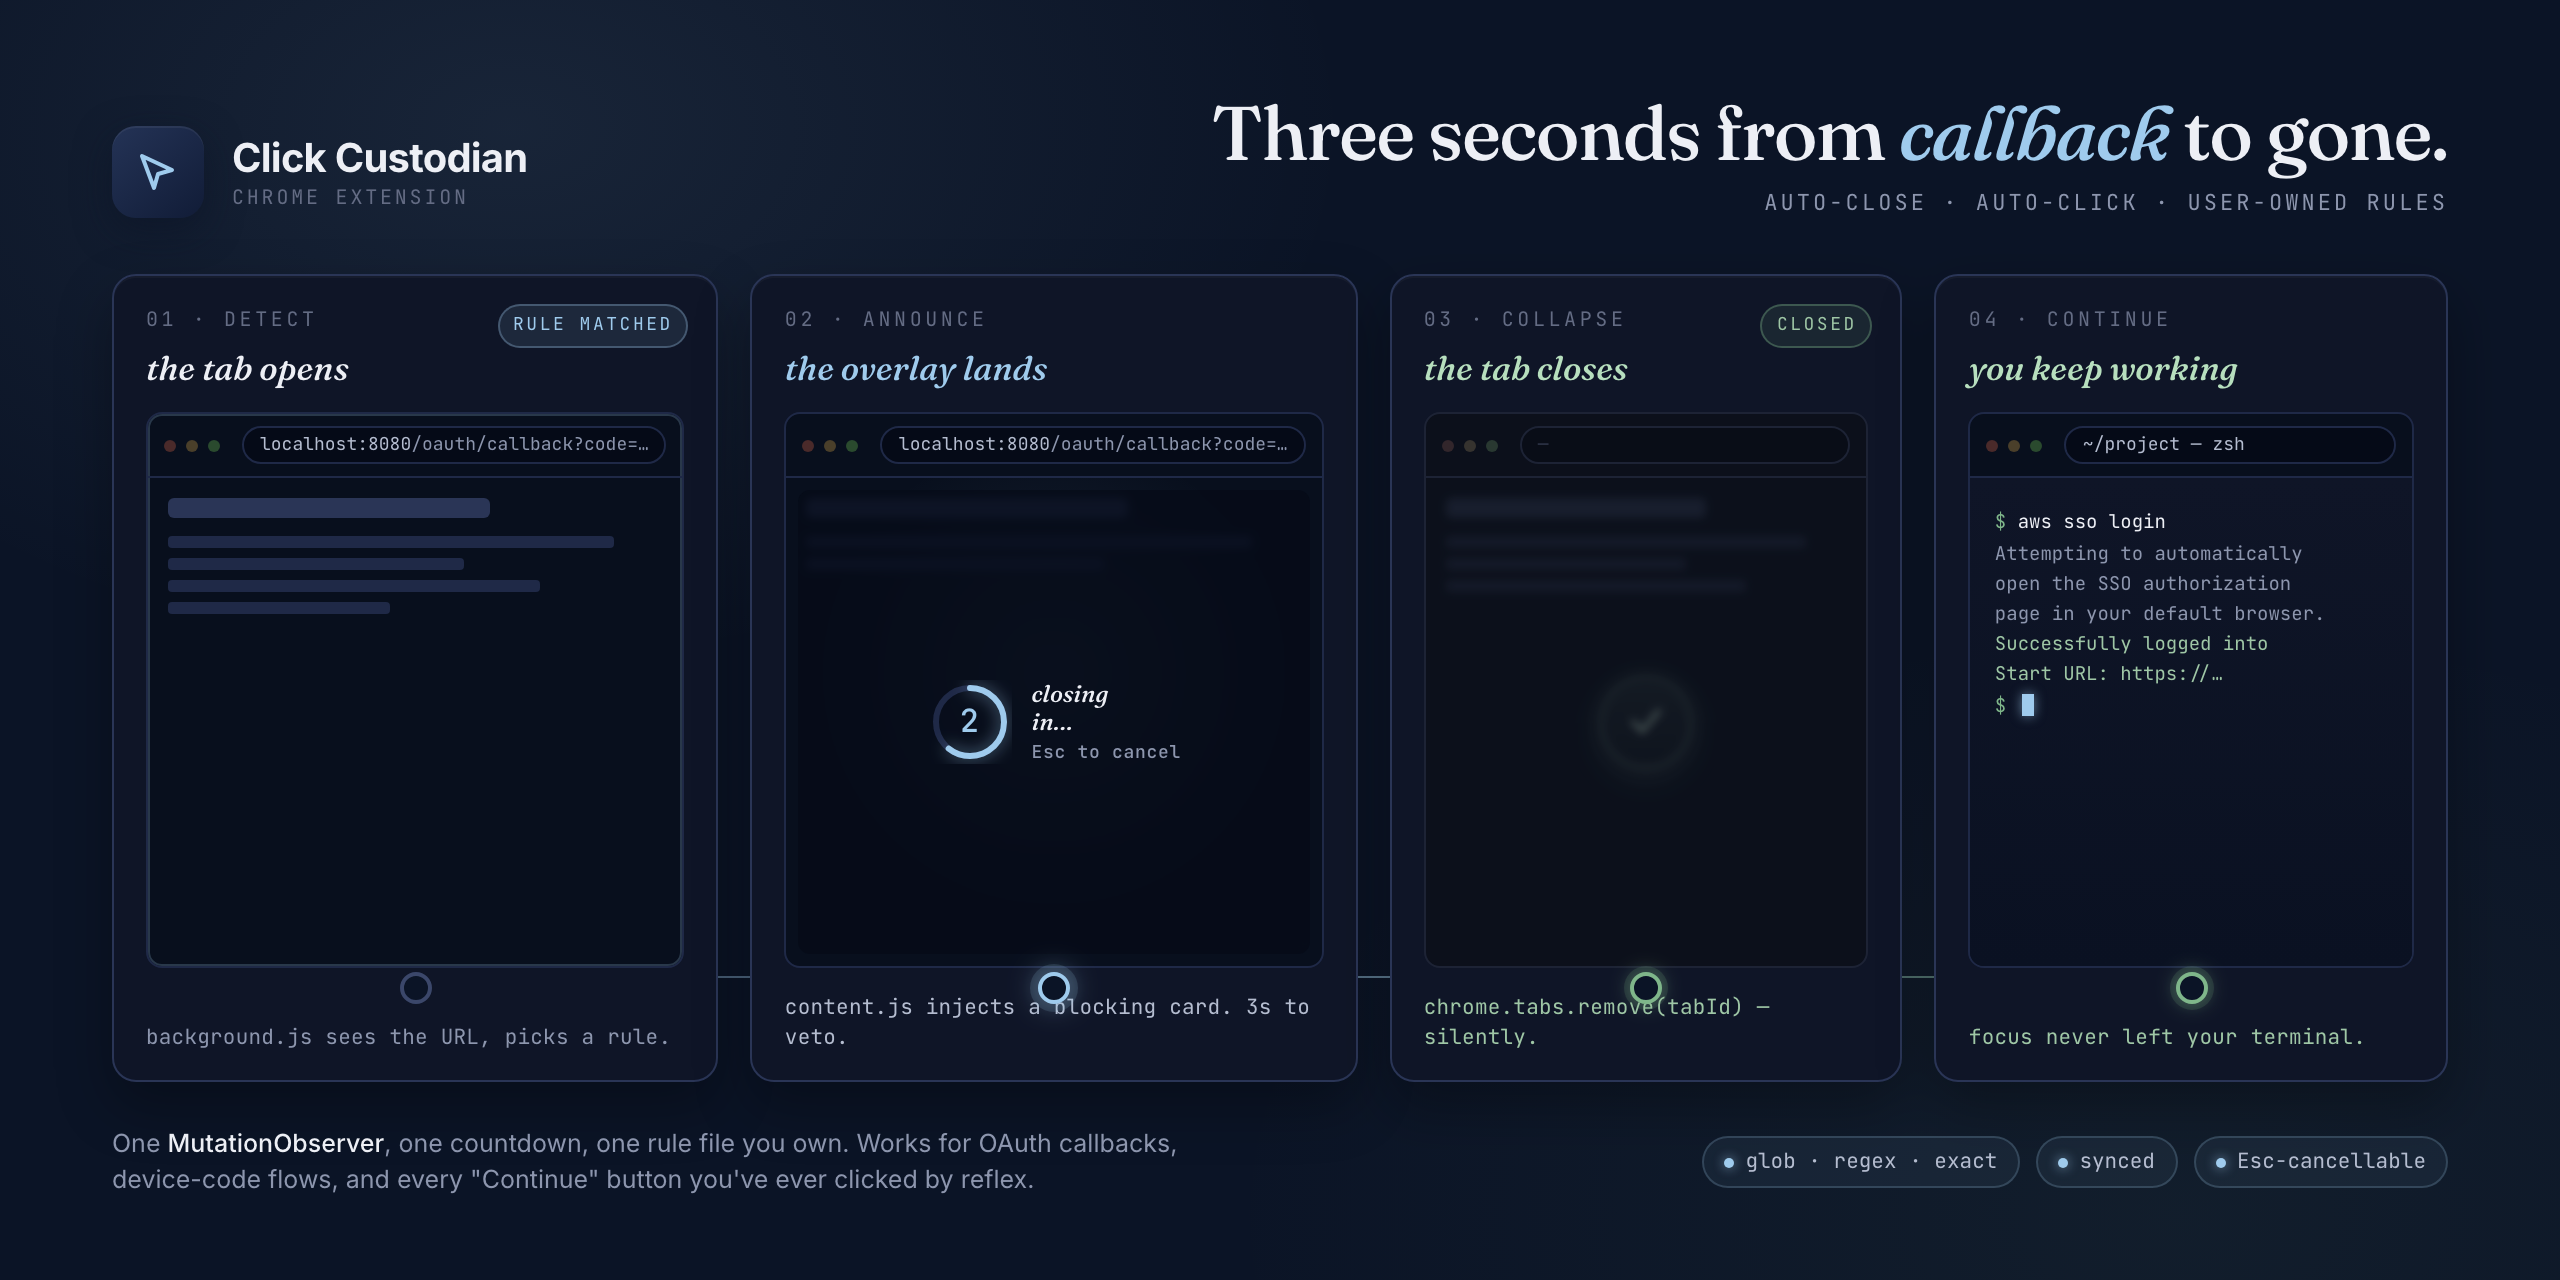
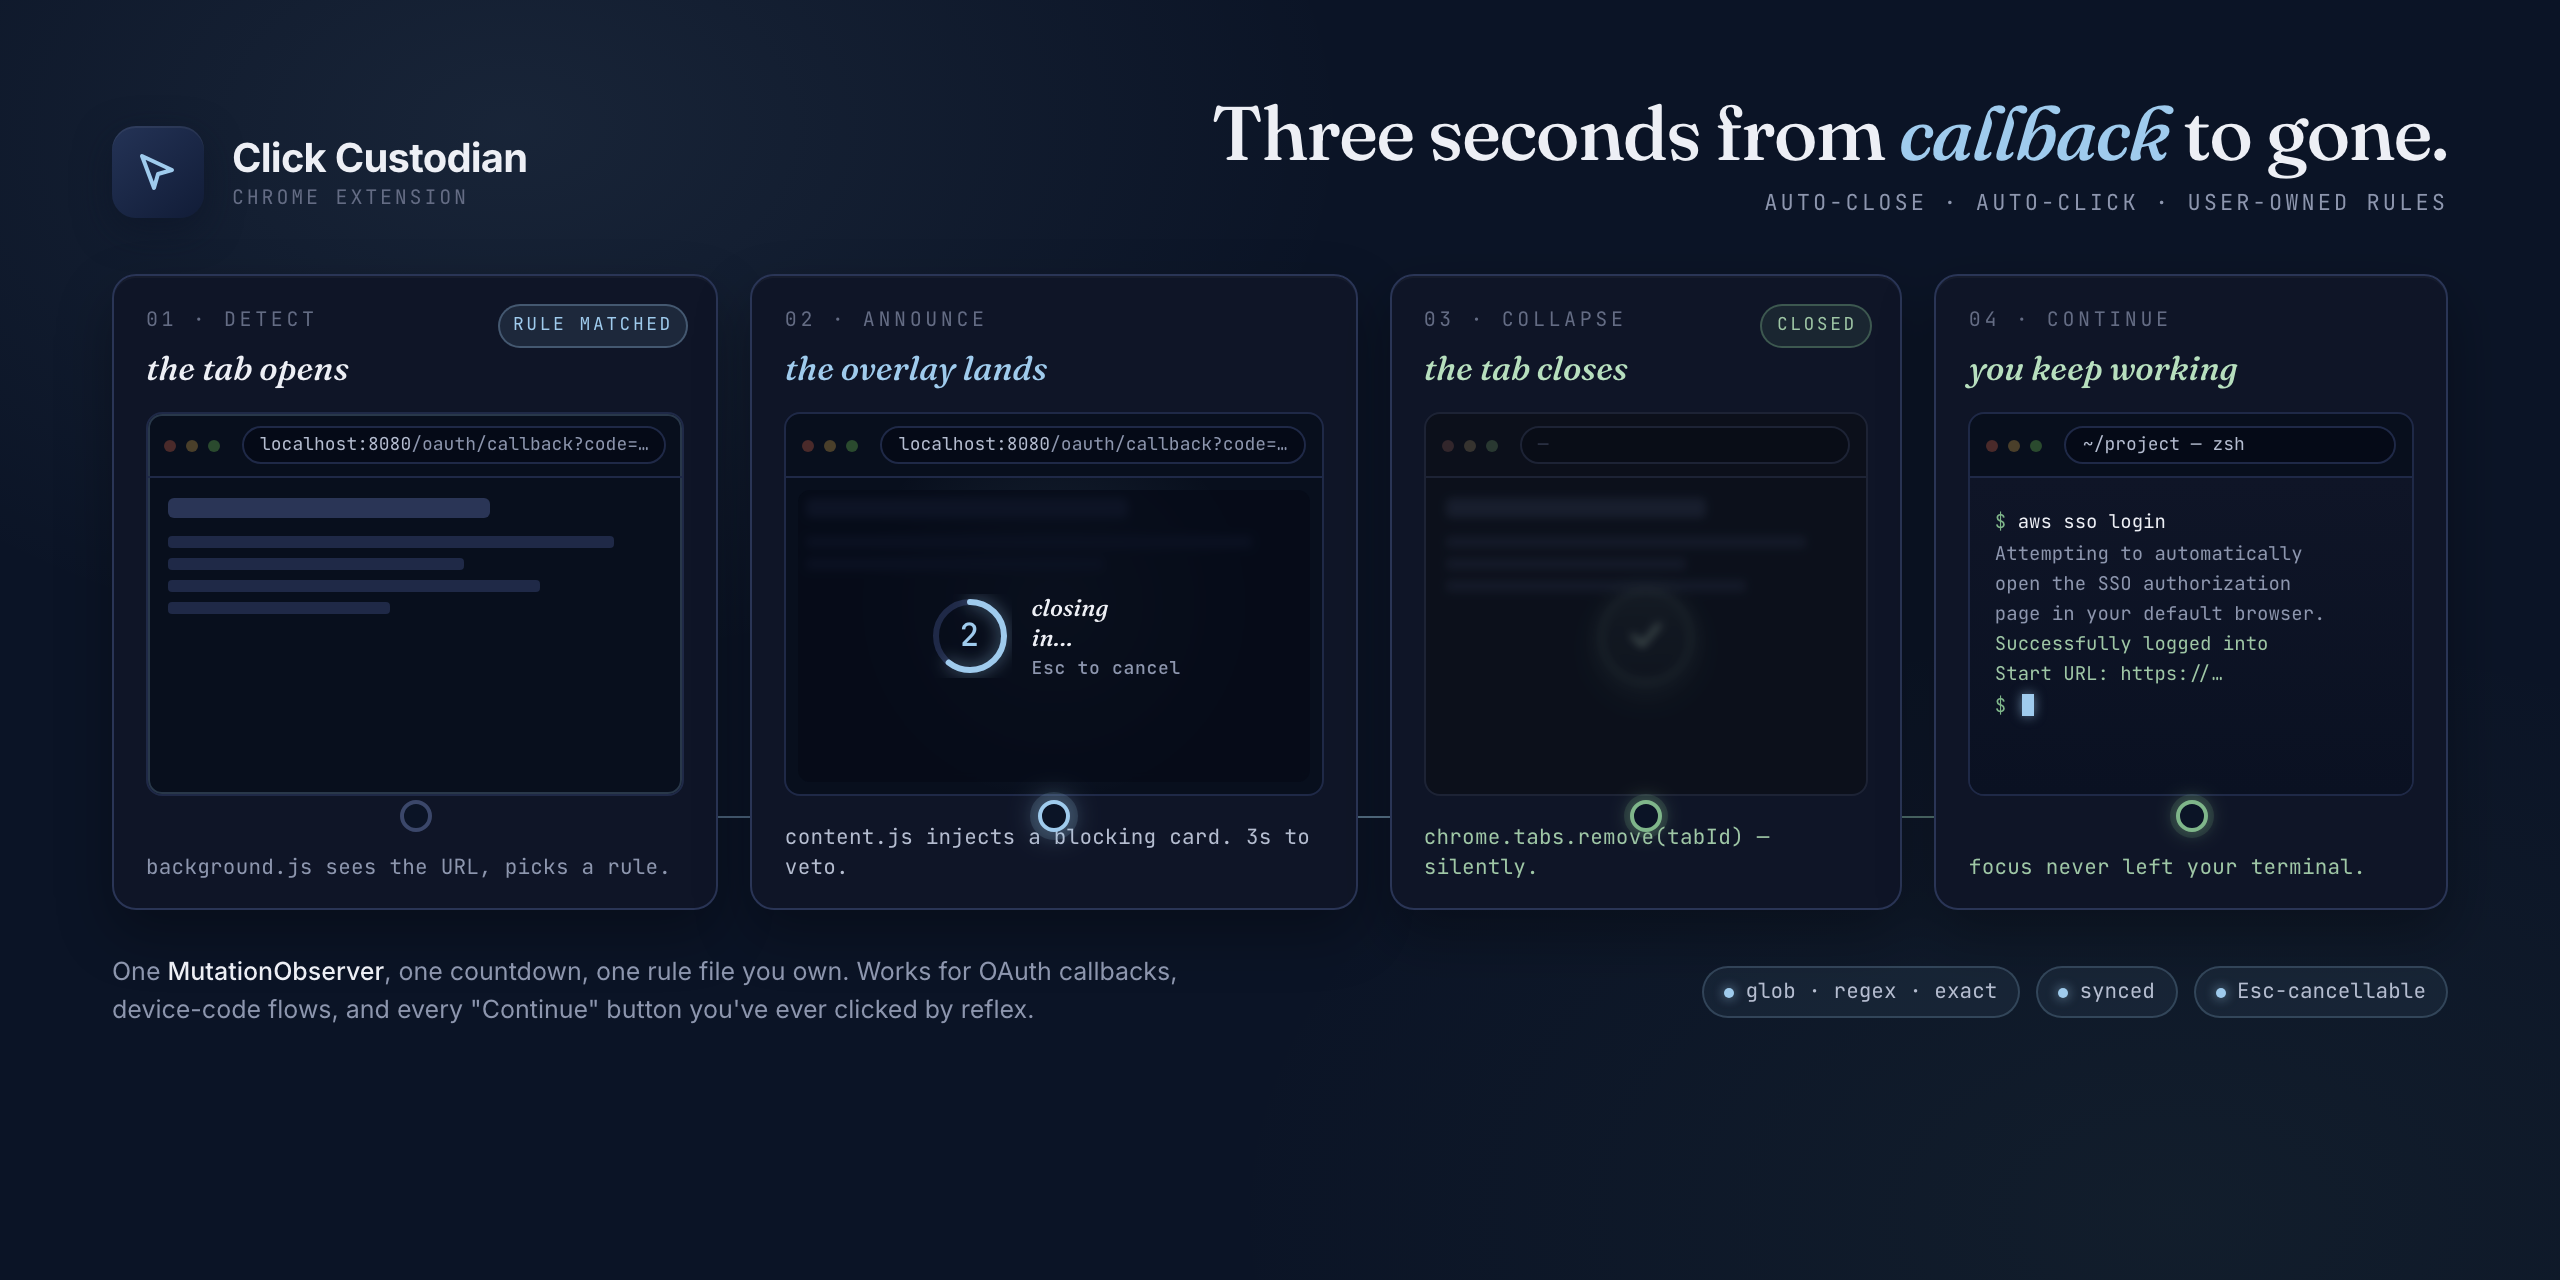
fix(images): align option-c thread + status pips
The four "step status" pips on the timeline were sitting 6px below
the horizontal thread that's supposed to connect them — a coordinate-
space mismatch nobody caught in the prior visual audits.

- .frame::after sits at bottom:46px and is then translated by 50% of
  its 12px height, putting its center at 46px from the frame bottom.
- .strip::before (the thread) was at bottom:52px → 6px above the
  dots' centers. Match it to bottom:46px so the dots sit on it.
- Also dropped `flex: 1` from .strip so the strip sizes to its
  content instead of inflating past the frames.

Diagnosed by Sonnet visual subagents (Opus could not reliably read
fine pixel-level alignment in this session; delegating image checks
to Sonnet was the unlock).

diff --git a/scripts/screenshots/hero-alt/option-c.html b/scripts/screenshots/hero-alt/option-c.html
@@ -105,7 +105,6 @@
 
   /* TIMELINE STRIP */
   .strip {
-    flex: 1;
     position: relative;
     display: grid;
     grid-template-columns: repeat(4, 1fr);
@@ -113,13 +112,17 @@
     z-index: 2;
   }
 
-  /* The horizontal thread running through the bottom of the frames */
+  /* The horizontal thread running through the bottom of the frames.
+     bottom must match the dots' center Y: .frame::after sits at
+     bottom:46px and is then translated by 50% of its own 12px height,
+     putting its center at 46px from the frame bottom. The thread
+     therefore lives at 46px too so the dots sit on it cleanly. */
   .strip::before {
     content: '';
     position: absolute;
     left: 2%;
     right: 2%;
-    bottom: 52px;
+    bottom: 46px;
     height: 1px;
     background: linear-gradient(90deg,
       transparent 0%,
